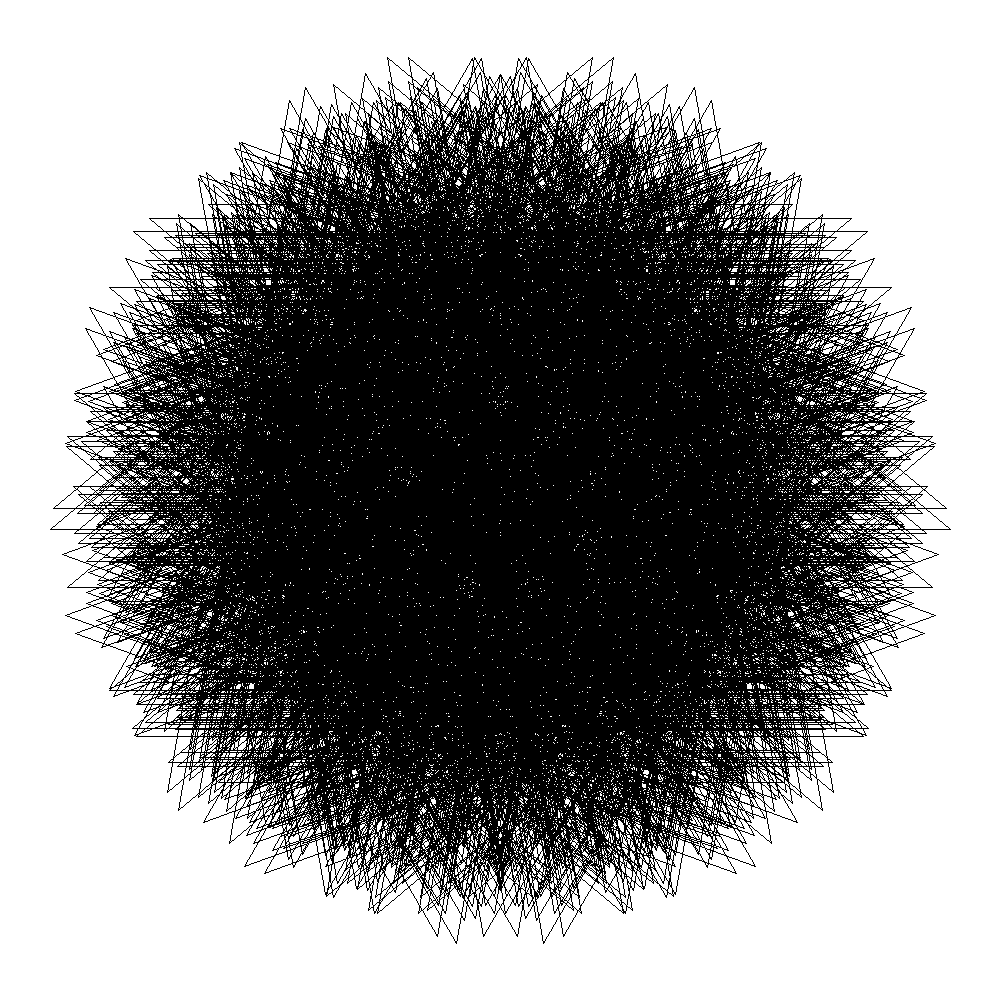
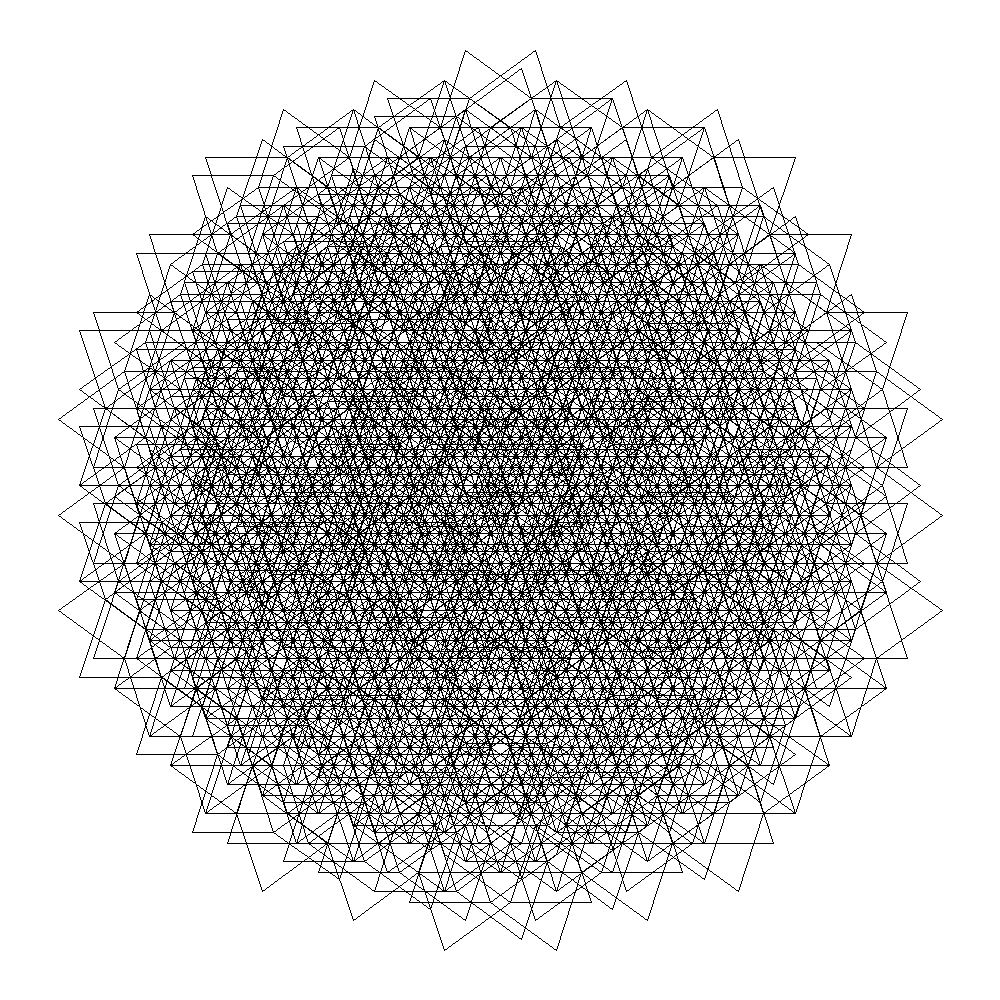
連続描画、画像の結合

Changed region(s): [[0.062, 0.062, 0.93, 0.93]]

diff --git a/main.py b/main.py
@@ -1,7 +1,7 @@
 import math
 from PIL import Image, ImageDraw
 
-from Lsystem_drawing.Artist import Artist
+from Lsystem_drawing.Artist import Artist,Artist_rad
 from Lsystem_drawing.Kame import Kame
 from drawing_source import pattern1
 from Lsystem_drawing.Lsystem import Lsystem
@@ -9,14 +9,46 @@ from Lsystem_drawing.Lsystem import Lsystem
 
 def main():
     drawing_data = pattern1
-    kame = Kame()
+    kame = Kame(canvas_size=500)
     ls = Lsystem(drawing_data.Omega, drawing_data.P)
-    artist = Artist(kame, drawing_data.DrawFuncs)
+    artist = Artist_rad(kame, drawing_data.DrawFuncs)
+    ims = []
+    for angle in range(3,13):
+        ims2 = []
+        for round in range(7):
+            ls.set_Omega("al"*angle)
+            ls.derive(round)
 
-    ls.derive(drawing_data.Round)
-    artist.move_kame(ls.state)
-    kame.draw()
-    kame.save("pictures/img.png")
+            artist.func_dict["r"] = ("r", math.pi*(1-2/angle))
+            artist.func_dict["l"] = ("l", math.pi*(2/angle))
+
+            artist.move_kame(ls.state)
+            kame.draw(show=False)
+            ims2.append(kame.image)
+            # kame.save(f"pictures/img{round}.png")
+
+            kame.__init__(canvas_size=500)
+            # ls.set_Omega(drawing_data.Omega)
+            artist.set_kame(kame)
+        ims.append(connect(*ims2))
+    connect_vert(*ims).save("pictures/img_merge.png")
+
+def connect(*ims):
+    dst = Image.new("RGB",(sum([im.width for im in ims]),ims[0].height))
+    dst.paste(ims[0],(0,0))
+    for i,im in enumerate(ims[1:]):
+        dst.paste(im,(sum([im.width for im in ims[:i+1]]),0))
+
+    return dst
+
+def connect_vert(*ims):
+    dst = Image.new("RGB", (ims[0].width,sum([im.height for im in ims])))
+    dst.paste(ims[0], (0, 0))
+    for i, im in enumerate(ims[1:]):
+        dst.paste(im, (0, sum([im.height for im in ims[:i + 1]])))
+
+    return dst
+
 
 
 if __name__ == '__main__':

diff --git a/Lsystem_drawing/Kame.py b/Lsystem_drawing/Kame.py
@@ -5,11 +5,11 @@ from PIL import Image, ImageDraw
 
 class Kame:
     """位置と向きを持って移動するエージェントを使って作図する。また図をpng形式で保存する"""
-    def __init__(self):
+    def __init__(self,canvas_size=1000):
         self.pos = (0.0, 0.0)
         self.head = 0.0
         self.line_list = []
-        self.canvas_size = (1000, 1000)
+        self.canvas_size = (canvas_size, canvas_size)
         self.line_color = (0, 0, 0)
         self.bg_color = (255, 255, 255)
 

diff --git a/Lsystem_drawing/Artist.py b/Lsystem_drawing/Artist.py
@@ -8,6 +8,9 @@ class Artist:
         self.kame = kame
         self.funcs = {}
 
+    def set_kame(self,kame):
+        self.kame = kame
+
     def process_f(self, arg):
         self.kame.forward(arg)
 
@@ -35,3 +38,13 @@ class Artist:
 
 class DrawFuncsError(Exception):
     pass
+
+class Artist_rad(Artist):
+    def __init__(self, kame, func_dict):
+        super().__init__(kame, func_dict)
+
+    def process_r(self, arg):
+        self.kame.right(arg)
+
+    def process_l(self, arg):
+        self.kame.left(arg)

diff --git a/Lsystem_drawing/Lsystem.py b/Lsystem_drawing/Lsystem.py
@@ -2,8 +2,16 @@ class Lsystem:
     def __init__(self, Omega, P):
         self.v = set(Omega + "".join(P.values()))
         self.state = Omega
+        self.P = P
         self.production = str.maketrans(P)
 
     def derive(self, n=1):
         for _ in range(n):
             self.state = self.state.translate(self.production)
+
+    def set_Omega(self,sentence):
+        self.state = sentence
+
+    def set_production(self,k,v):
+        self.P[k] = v
+        self.production = str.maketrans(self.P)

diff --git a/drawing_source/pattern1.py b/drawing_source/pattern1.py
@@ -1,14 +1,14 @@
-Omega = "alalalalalalalalal"
+Omega = "alalal"
 
 P = {
     "a": "lararararal",
 }
 
 DrawFuncs = {
-    "a": "f1000",
-    "r": "r140",
-    "l": "l40",
+    "a": "f500",
+    "r": "r108",
+    "l": "l72",
 }
 
-Round = 4
+Round = 6
 
